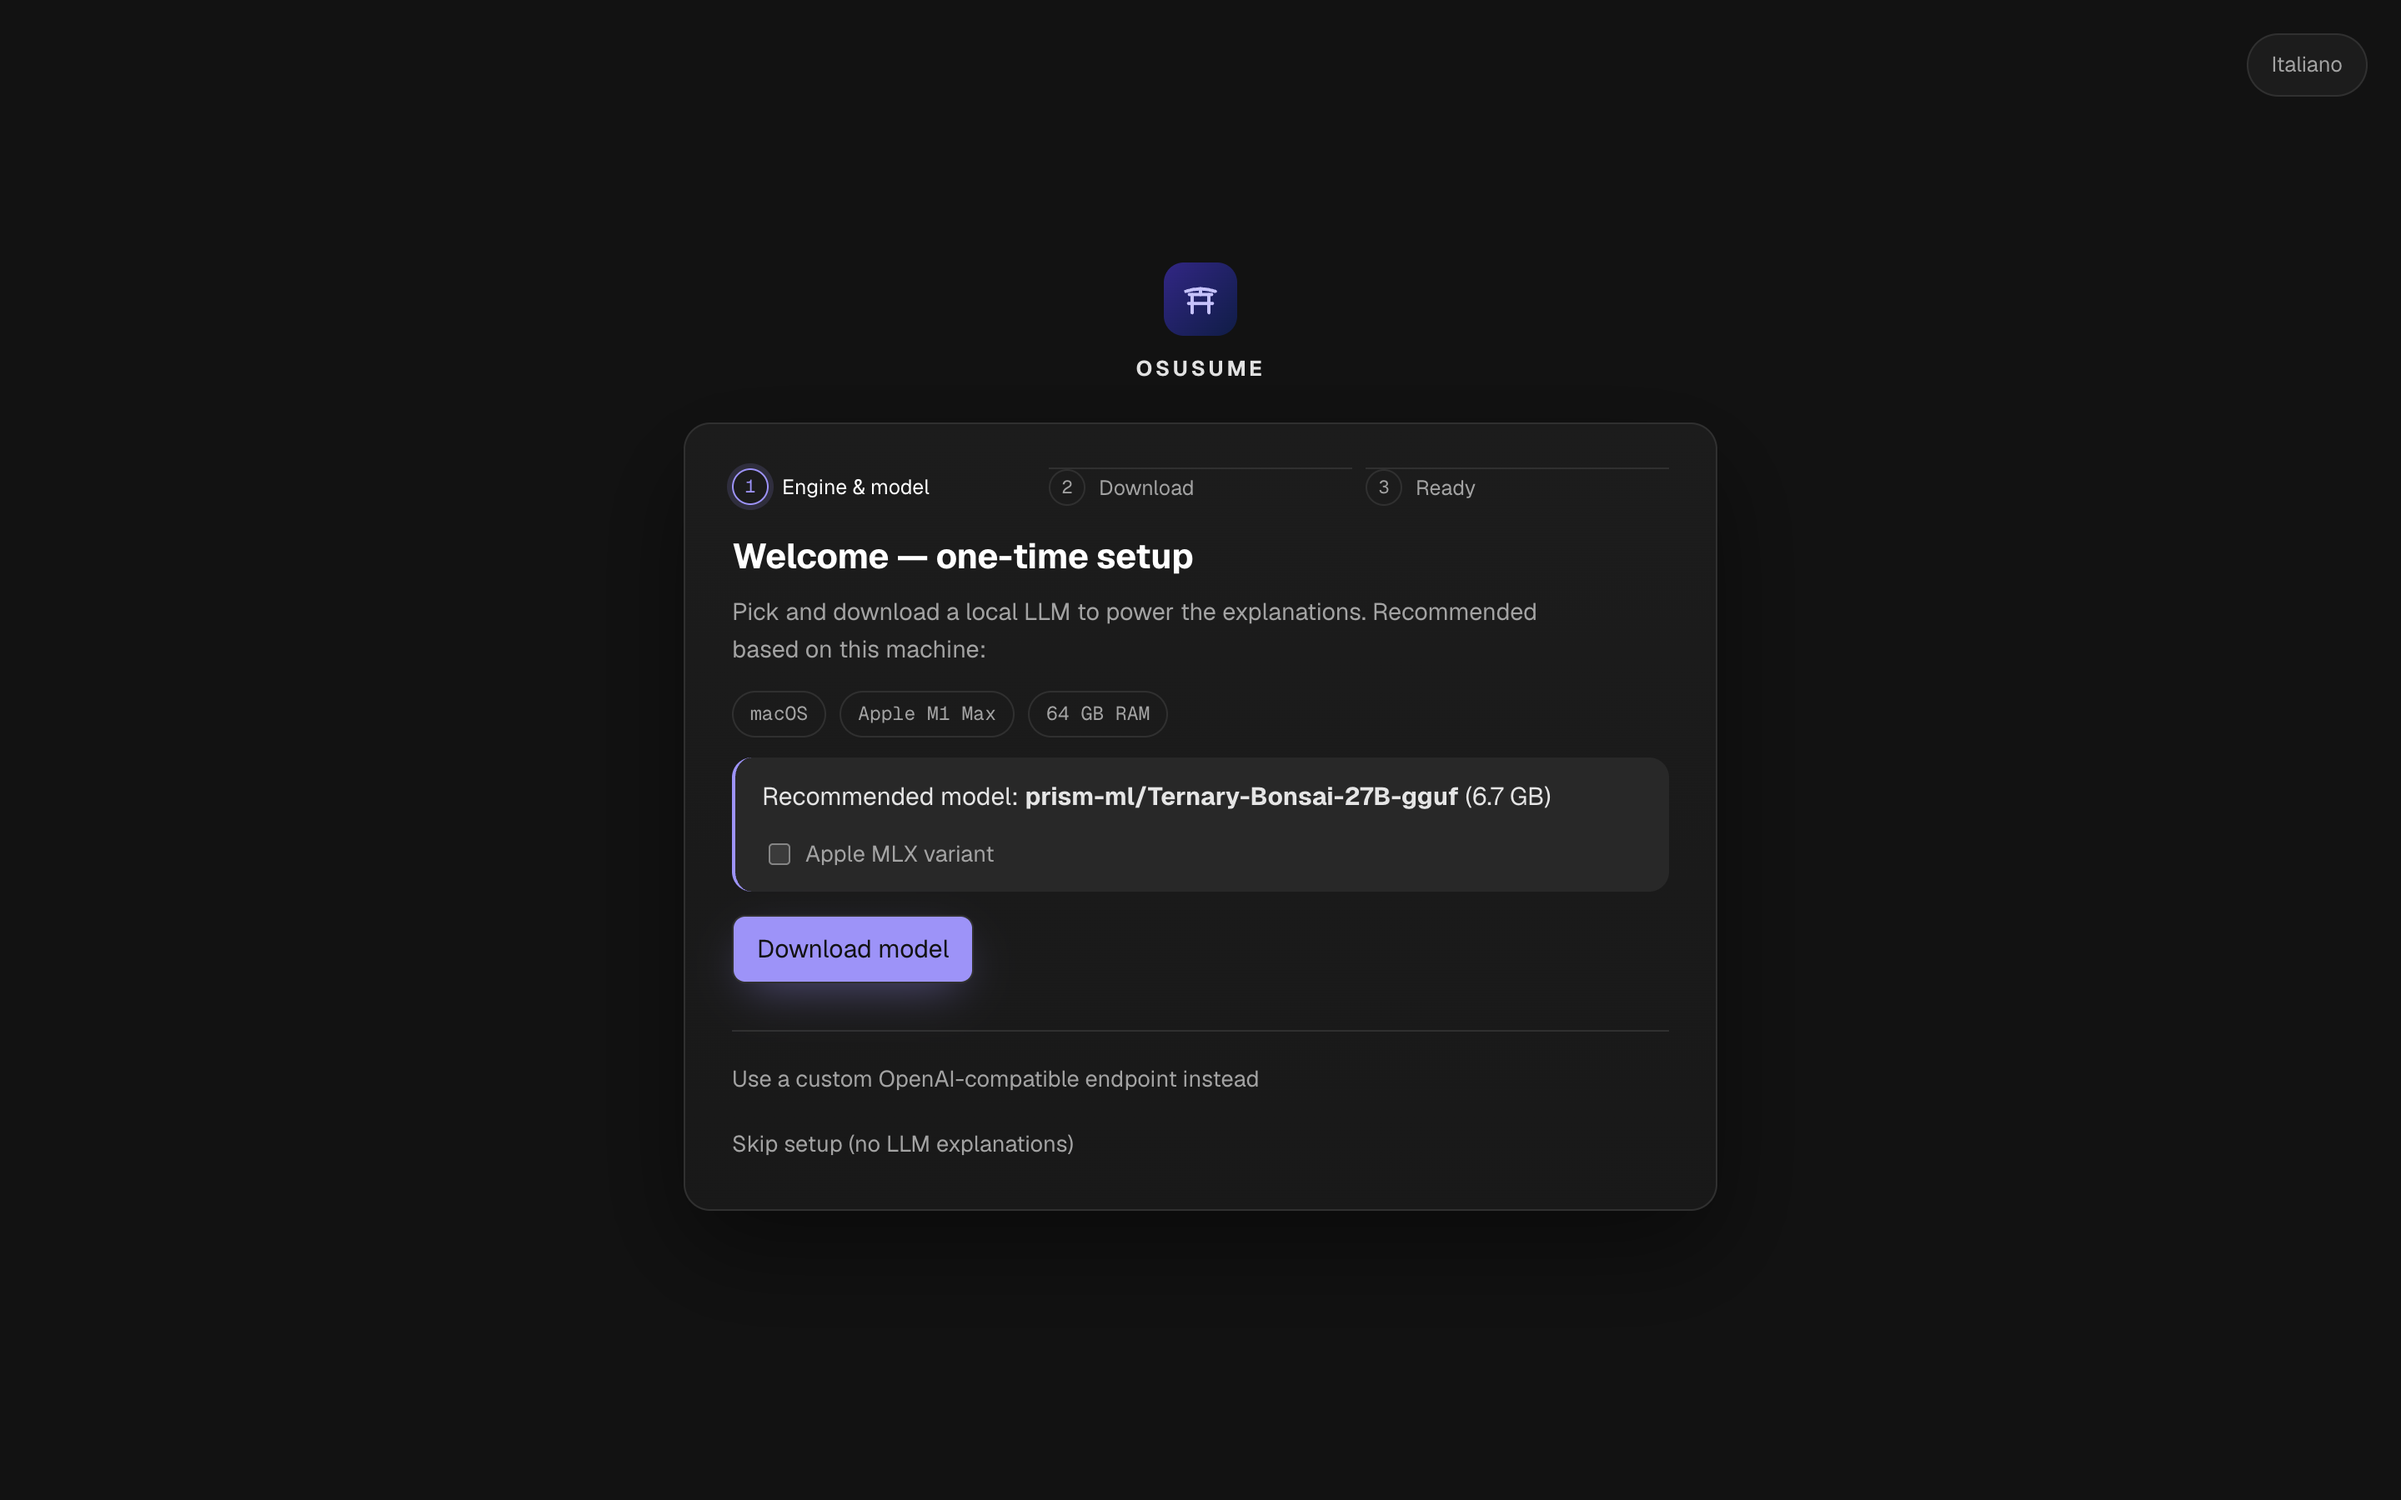
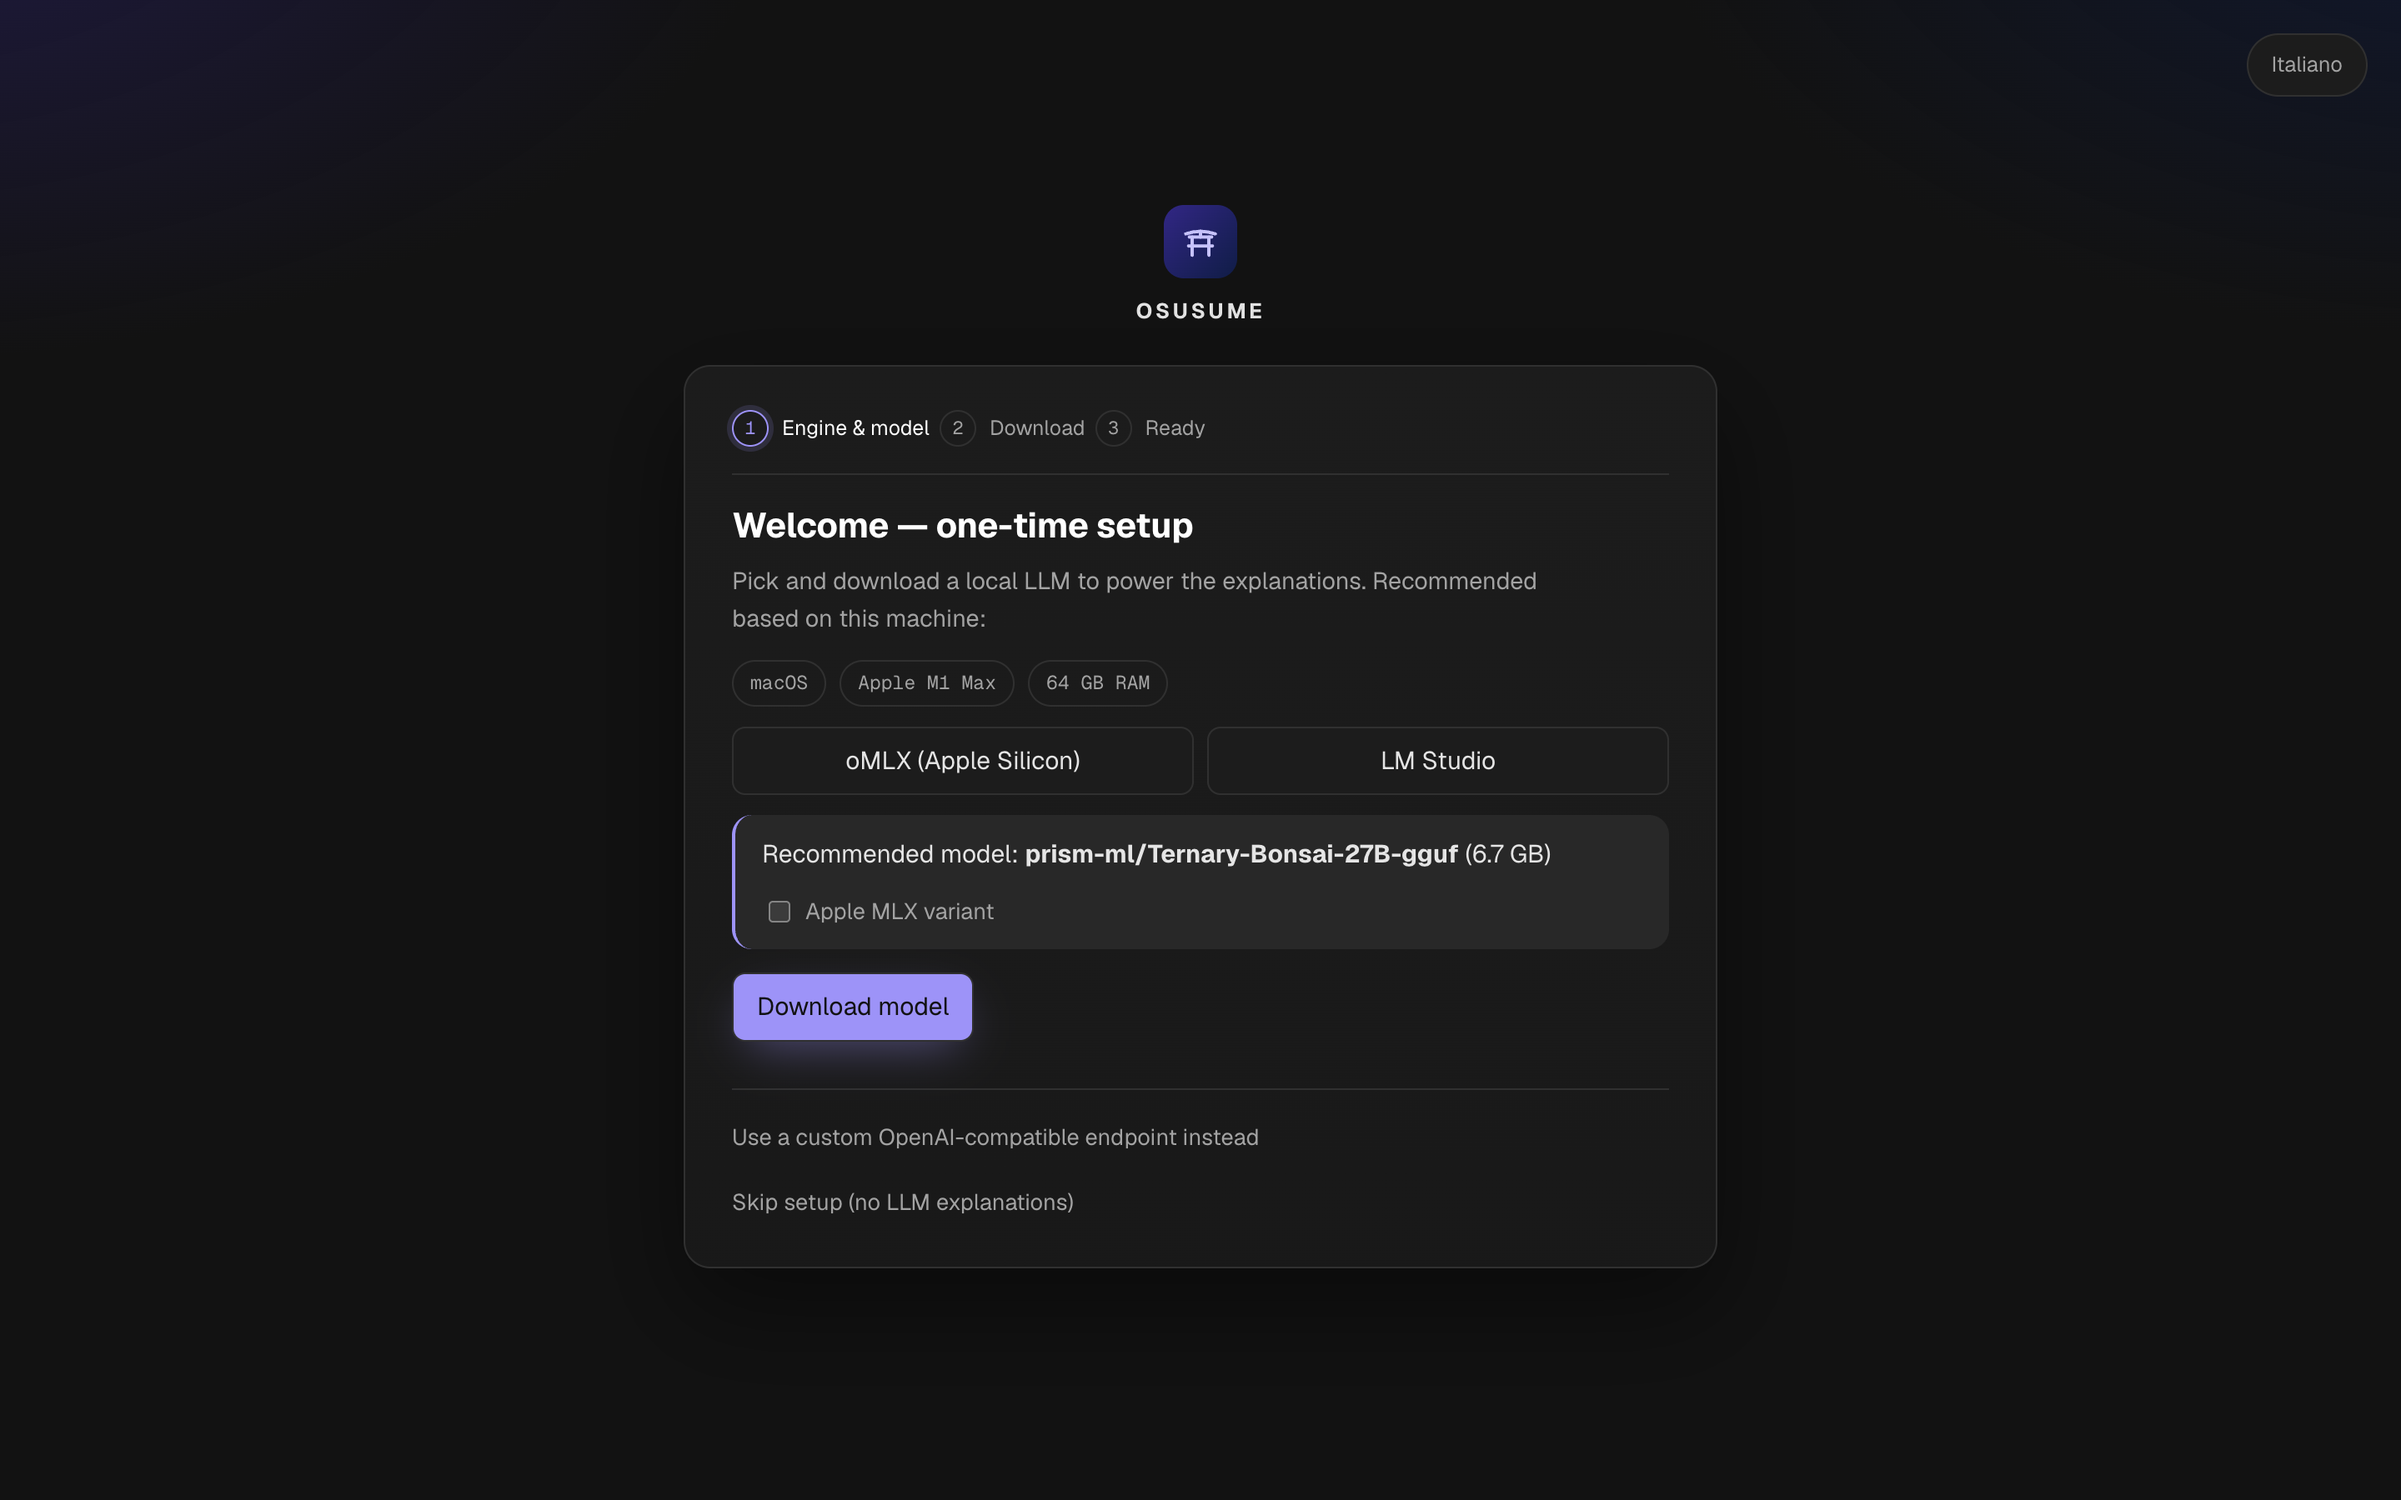
fix: update check feedback, wizard overlap cleanup
- /api/app-update?fresh=1 bypasses the 5-min memo: the manual check really hits GitHub
- Settings + rail: spinner while checking, 'up to date'/'error' feedback, disable while in flight
- wizard: removes stray border rule (component overlap), full-width backend buttons,
  step labels truncate, glow background for design parity, narrow-window fallback
- version 0.6.1

diff --git a/src/ui/styles.css b/src/ui/styles.css
@@ -487,9 +487,12 @@ h1, h2, h3 { color: var(--fg); margin: 0; }
 /* ── setup wizard ───────────────────────────────────────────── */
 .wizard-page {
   min-height: 100vh; display: flex; flex-direction: column; align-items: center;
-  justify-content: center; padding: 48px 20px 64px; position: relative; z-index: 1;
+  justify-content: center; padding: 48px 20px 64px; position: relative;
 }
-.wizard-lang { position: absolute; top: 20px; right: 20px; border-radius: 999px; font-size: 0.8rem; color: var(--muted); }
+@media (max-width: 560px) {
+  .wizard-steps .lbl { display: none; }
+}
+.wizard-lang { position: absolute; top: 20px; right: 20px; border-radius: 999px; font-size: 0.8rem; color: var(--muted); z-index: 2; }
 .wizard-lang:hover { color: var(--fg); }
 .wizard-brand { width: 44px; height: 44px; border-radius: 12px; display: grid; place-items: center;
   background: linear-gradient(135deg, var(--glow-a), var(--glow-b)); color: var(--ring); }
@@ -503,9 +506,9 @@ h1, h2, h3 { color: var(--fg); margin: 0; }
 }
 .wizard-card > h1 { font-size: 21px; letter-spacing: -0.01em; margin: 14px 0 0; }
 .wizard-sub { color: var(--muted); font-size: 0.9rem; margin: 6px 0 0; max-width: 52ch; }
-.wizard-steps { list-style: none; display: flex; gap: 8px; padding: 0; margin: 0; }
-.wizard-steps li { flex: 1; display: flex; align-items: center; gap: 8px; color: var(--muted); font-size: 0.78rem; }
-.wizard-steps li + li { border-top: 1px solid var(--border); } /* no: use separators on labels */
+.wizard-steps { list-style: none; display: flex; gap: 6px; padding: 0 0 16px; margin: 0 0 6px; border-bottom: 1px solid var(--border); }
+.wizard-steps li { display: flex; align-items: center; gap: 8px; color: var(--muted); font-size: 0.78rem; min-width: 0; }
+.wizard-steps .lbl { white-space: nowrap; overflow: hidden; text-overflow: ellipsis; }
 .wizard-steps .dot {
   width: 22px; height: 22px; border-radius: 999px; display: grid; place-items: center; flex: none;
   border: 1px solid var(--border); font-size: 0.68rem; font-family: var(--font-mono);
@@ -532,14 +535,16 @@ button:disabled { opacity: 0.5; cursor: default; }
 .header-side { display: flex; gap: 8px; align-items: center; }
 .profile-panel { background: var(--surface); border-radius: var(--r-md); padding: 16px 20px; margin-top: 20px; }
 .profile-meta { color: var(--muted); font-size: 0.9rem; }
-.backend-row { display: flex; gap: 8px; margin: 12px 0; }
-.backend-row button.selected { border-color: var(--accent); color: var(--accent); }
+.backend-row { display: flex; gap: 8px; margin: 12px 0; flex-wrap: wrap; }
+.backend-row button { flex: 1; min-width: 140px; }
+.backend-row button.selected { border-color: var(--accent); color: var(--accent); background: rgb(159 146 255 / 0.08); }
 .omlx-models { display: grid; gap: 6px; margin: 10px 0; font-size: 0.9rem; }
 .model-card { background: var(--surface-2); border-left: 2px solid var(--accent); border-radius: var(--r-md); padding: 12px 16px; margin: 12px 0; display: flex; justify-content: space-between; align-items: center; gap: 12px; flex-wrap: wrap; }
 .mlx-opt { display: flex; align-items: center; gap: 6px; font-size: 0.85rem; color: var(--muted); cursor: pointer; }
 .warn-box { background: rgb(199 194 255 / 0.1); color: var(--ring); border-radius: var(--r-md); padding: 8px 12px; font-size: 0.85rem; display: block; }
 .warn-box code { display: block; margin-top: 6px; word-break: break-all; color: var(--body-text); }
 .action-row { display: flex; align-items: center; gap: 12px; margin: 14px 0; flex-wrap: wrap; }
+.action-row .warn-box { flex: 1; min-width: 180px; margin: 0; }
 .action-row input { flex: 1; min-width: 220px; }
 .progress { height: 6px; border-radius: 3px; background: var(--surface-2); overflow: hidden; margin: 12px 0; }
 .progress span { display: block; height: 100%; width: 40%; border-radius: 3px; background: var(--accent); animation: slide 1.2s ease-in-out infinite alternate; }
@@ -556,6 +561,11 @@ button:disabled { opacity: 0.5; cursor: default; }
 .set-row .set-stack { display: grid; gap: 2px; justify-items: end; text-align: right; }
 .set-row small { color: var(--muted); font-size: 0.75rem; }
 .set-row small.ok { color: var(--ok, #6ee7a0); }
+.set-row small.err { color: var(--ring); }
+.set-check { display: inline-flex; align-items: center; gap: 7px; }
+.set-check svg { width: 14px; height: 14px; }
+@keyframes spin { to { transform: rotate(360deg); } }
+.spin { animation: spin 0.9s linear infinite; transform-origin: center; }
 .seg { display: inline-flex; border: 1px solid var(--border); border-radius: 999px; overflow: hidden; }
 .seg button { background: none; border: none; color: var(--muted); font: inherit; font-size: 0.75rem; padding: 5px 14px; cursor: pointer; }
 .seg button + button { border-left: 1px solid var(--border); }

diff --git a/src/ui/App.tsx b/src/ui/App.tsx
@@ -101,6 +101,22 @@ export function App() {
     fetchAppUpdate().then(setUpdate).catch(() => undefined);
   }, []);
 
+  // manual "check now" (Settings + rail chip): fresh fetch + spinner feedback
+  const [updChecking, setUpdChecking] = useState(false);
+  const [updError, setUpdError] = useState(false);
+  const checkUpdates = () => {
+    if (updChecking) return;
+    setUpdChecking(true);
+    setUpdError(false);
+    fetchAppUpdate(true)
+      .then((u) => {
+        setUpdate(u);
+        if (!u.current) setUpdError(true); // dev/docker: nothing to compare against
+      })
+      .catch(() => setUpdError(true))
+      .finally(() => setUpdChecking(false));
+  };
+
   // the top scrim under the sticky topbar lights up once the page scrolls
   useEffect(() => {
     const el = document.getElementById("top-fade");
@@ -237,7 +253,8 @@ export function App() {
             postLocalMode(!local.auto).then((r) => setLocal(r.local)).catch(() => undefined);
           }}
           update={update}
-          onCheckUpdates={() => fetchAppUpdate().then(setUpdate).catch(() => undefined)}
+          updateChecking={updChecking}
+          onCheckUpdates={checkUpdates}
           onNav={showView}
           onLang={() => setLang(lang === "en" ? "it" : "en")}
         />
@@ -498,16 +515,20 @@ export function App() {
             <div className="set-row">
               <span>{tr(lang, "setTitleUpd")}</span>
               <div className="set-stack">
-                {update?.available ? (
+                {update?.available && !updChecking ? (
                   <button type="button" className="linklike" onClick={() => update.url && window.open(update.url, "_blank", "noopener")}>
                     {tr(lang, "updateAvailable", { v: update.latest ?? "" })}
                   </button>
                 ) : (
-                  <button type="button" className="linklike" onClick={() => fetchAppUpdate().then(setUpdate).catch(() => undefined)}>
-                    {tr(lang, "checkUpdates")}
+                  <button type="button" className="linklike set-check" disabled={updChecking} onClick={checkUpdates}>
+                    <svg viewBox="0 0 24 24" fill="none" stroke="currentColor" strokeWidth="1.8" aria-hidden="true" className={updChecking ? "spin" : undefined}>
+                      <path d="M20 12a8 8 0 1 1-2.3-5.6M20 4v4h-4" />
+                    </svg>
+                    {updChecking ? tr(lang, "checking") : tr(lang, "checkUpdates")}
                   </button>
                 )}
-                {update?.latest && !update.available && <small>{tr(lang, "upToDate")}</small>}
+                {updError && <small className="err">{tr(lang, "errGeneric")}</small>}
+                {!updError && update?.latest && !update.available && <small>{tr(lang, "upToDate")}</small>}
                 {update?.current && <small>{tr(lang, "currentVersion", { v: update.current })}</small>}
               </div>
             </div>

diff --git a/src/server/update.ts b/src/server/update.ts
@@ -23,8 +23,8 @@ let memoTag: string | null = null;
 let memoUrl: string | null = null;
 const MEMO_MS = 5 * 60 * 1000; // GitHub anonymous rate limit is 60/h
 
-async function latestRelease(): Promise<{ tag: string | null; url: string | null }> {
-  if (Date.now() - memoAt < MEMO_MS) return { tag: memoTag, url: memoUrl };
+async function latestRelease(fresh = false): Promise<{ tag: string | null; url: string | null }> {
+  if (!fresh && Date.now() - memoAt < MEMO_MS) return { tag: memoTag, url: memoUrl };
   try {
     const res = await fetch(RELEASES_URL, {
       headers: { accept: "application/vnd.github+json" },
@@ -49,11 +49,12 @@ export interface AppUpdateStatus {
   available: boolean;
 }
 
-/** Update check: APP_VERSION is injected by the Electron main (absent in dev/docker). */
-export async function appUpdateStatus(): Promise<AppUpdateStatus> {
+/** Update check: APP_VERSION is injected by the Electron main (absent in dev/docker).
+ *  `fresh` bypasses the memo — the manual "check now" button must hit GitHub. */
+export async function appUpdateStatus(fresh = false): Promise<AppUpdateStatus> {
   const current = APP_VERSION ?? null;
   if (!current) return { current: null, latest: null, url: null, available: false };
-  const { tag, url } = await latestRelease();
+  const { tag, url } = await latestRelease(fresh);
   return {
     current,
     latest: tag,

diff --git a/src/ui/components/Rail.tsx b/src/ui/components/Rail.tsx
@@ -41,6 +41,7 @@ export function Rail(props: {
   local: LocalMode | null;
   onToggleLocal: () => void;
   update: AppUpdate | null;
+  updateChecking?: boolean;
   onCheckUpdates: () => void;
   onNav: (v: View) => void;
   onLang: () => void;
@@ -116,10 +117,17 @@ export function Rail(props: {
                 type="button"
                 className="llm-chip"
                 data-od-id="update-check"
-                data-tip={tr(lang, "checkUpdates")}
+                data-tip={props.updateChecking ? tr(lang, "checking") : tr(lang, "checkUpdates")}
                 onClick={props.onCheckUpdates}
               >
-                <svg viewBox="0 0 24 24" fill="none" stroke="currentColor" strokeWidth="1.6" aria-hidden="true">
+                <svg
+                  viewBox="0 0 24 24"
+                  fill="none"
+                  stroke="currentColor"
+                  strokeWidth="1.6"
+                  aria-hidden="true"
+                  className={props.updateChecking ? "spin" : undefined}
+                >
                   <path d="M20 12a8 8 0 1 1-2.3-5.6M20 4v4h-4" />
                 </svg>
               </button>

diff --git a/src/shared/strings.ts b/src/shared/strings.ts
@@ -29,6 +29,7 @@ const en: Dict = {
   retryLive: "Retry live",
   updateAvailable: "Update {v} available — download",
   checkUpdates: "Check for updates",
+  checking: "Checking…",
   upToDate: "You're up to date",
   localAuto: "Auto-switch to local data if AniList is down",
   emptyState: "Nothing to recommend — try a username with more scored entries.",
@@ -171,6 +172,7 @@ const it: Dict = {
   retryLive: "Riprova live",
   updateAvailable: "Aggiornamento {v} disponibile — scarica",
   checkUpdates: "Controlla aggiornamenti",
+  checking: "Verifica in corso…",
   upToDate: "Sei aggiornato",
   localAuto: "Passa automaticamente ai dati locali se AniList è giù",
   emptyState: "Niente da consigliare — prova uno username con più voti.",

diff --git a/src/ui/api.ts b/src/ui/api.ts
@@ -36,7 +36,8 @@ export interface AppUpdate {
   available: boolean;
 }
 
-export const fetchAppUpdate = (): Promise<AppUpdate> => fetch("/api/app-update").then(json);
+export const fetchAppUpdate = (fresh = false): Promise<AppUpdate> =>
+  fetch(`/api/app-update${fresh ? "?fresh=1" : ""}`).then(json);
 
 export const fetchProfile = (username: string): Promise<{ profile: TasteProfile }> =>
   fetch(`/api/profile/${encodeURIComponent(username)}`).then(json);

diff --git a/src/server/api.ts b/src/server/api.ts
@@ -40,7 +40,7 @@ api.get("/health", async (c) => {
   });
 });
 
-api.get("/app-update", async (c) => c.json(await appUpdateStatus()));
+api.get("/app-update", async (c) => c.json(await appUpdateStatus(c.req.query("fresh") === "1")));
 
 // UI toggle: auto-fallback on AniList failure. Switching it off also retries live.
 // {local:false} forces a live retry without touching the auto preference (banner button).

diff --git a/src/ui/components/SetupWizard.tsx b/src/ui/components/SetupWizard.tsx
@@ -101,6 +101,7 @@ export function SetupWizard(props: {
 
   return (
     <main className="wizard-page">
+      <div className="glow" aria-hidden="true" />
       <button
         type="button"
         className="wizard-lang"
